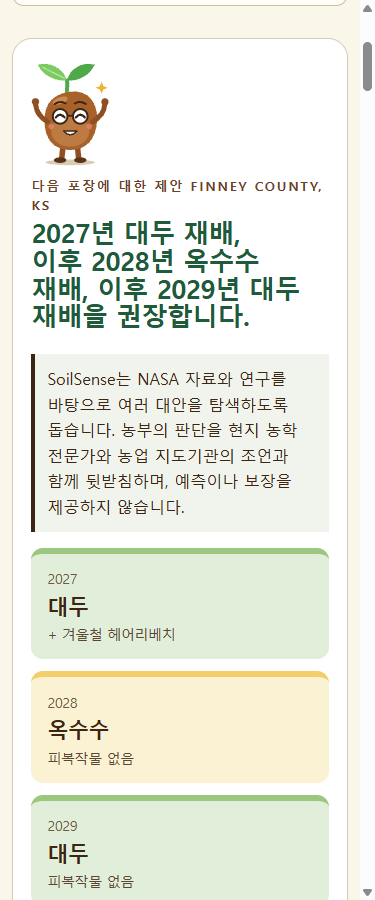
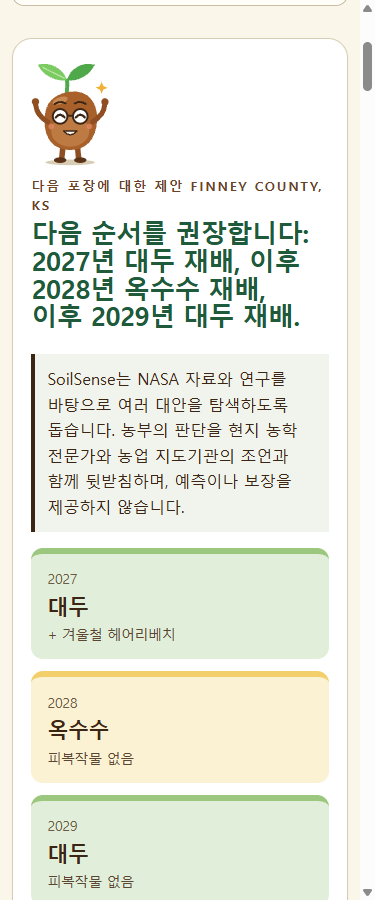
Complete Korean translations for merged field and pixel-fit panels

Changed region(s): [[0.088, 0.2178, 0.8213, 0.3733]]

diff --git a/web/src/i18n-ko.ts b/web/src/i18n-ko.ts
@@ -1290,4 +1290,56 @@ export const korean: Partial<Record<string, string>> = {
   "Regional extension context; retrieval relevance is not agronomic confidence.": "지역 농업 지도 배경 정보입니다. 검색 관련도가 농학적 신뢰도를 뜻하지는 않습니다.",
   "Curated passages on diversifying cropping systems.": "작부 체계 다양화에 관해 선별한 구절.",
   "General research context; not evidence that a specific field will achieve a stated return.": "일반적인 연구 배경 정보이며 특정 포장에서 명시된 수익을 얻는다는 근거가 아닙니다.",
+  "Choose public field outlines": "공개 포장 경계 선택",
+  "CSB outlines are synthetic crop boundaries, not ownership or tax parcels. Coverage tonight: about 3 × 3 km around each demo farm only.": "CSB 경계는 합성된 작물 재배 경계이며 소유권이나 과세 필지 경계가 아닙니다. 오늘 밤 제공 범위는 각 시연 농장 주변 약 3 × 3 km로 한정됩니다.",
+  "Boundary area": "경계 조회 지역",
+  "Show boundaries on map": "지도에 경계 표시",
+  "Click an outline to select it. Shift/Ctrl-click to add or remove; or use the checkboxes below.": "경계를 클릭하여 선택하세요. Shift/Ctrl 키를 누른 채 클릭하여 추가하거나 제거할 수 있으며, 아래 확인란을 사용해도 됩니다.",
+  "Loading field outlines…": "포장 경계 불러오는 중…",
+  "Field outlines unavailable. Choose an area to retry.": "포장 경계를 불러올 수 없습니다. 지역을 선택하여 다시 시도하세요.",
+  "Fields in this area": "이 지역의 포장",
+  "Selected fields": "선택한 포장",
+  "{count} fields · {acres} acres total": "포장 {count}개 · 총 {acres} acres",
+  "{acres} acres": "{acres} acres",
+  "Add shared-edge neighbours": "경계선을 공유하는 인접 포장 추가",
+  "Clear field selection": "포장 선택 해제",
+  "No fields selected.": "선택한 포장이 없습니다.",
+  "CSB crop sequence (2018–2025)": "CSB 재배 작물 순서(2018–2025)",
+  "Use this field centroid for the plan": "이 포장의 도형 중심점을 계획 위치로 사용",
+  "Selection does not change the planning point unless you choose the centroid button. Crop history remains the existing point-based history.": "도형 중심점 버튼을 선택하지 않는 한 포장을 선택해도 계획 지점은 바뀌지 않습니다. 재배 이력은 기존의 지점 기반 이력으로 유지됩니다.",
+  "Nearby fields share coarse NASA POWER weather (~50 km); outlines do not make weather field-scale.": "인근 포장은 저해상도 NASA POWER 기상 자료(~50 km)를 공유합니다. 경계를 표시해도 기상 자료가 포장 규모로 상세해지는 것은 아닙니다.",
+  "Source and limitations": "출처와 한계",
+  "Remove selected field": "선택한 포장 제거",
+  "Sinusoidal grid": "정현도법 격자",
+  "Mascons": "질량 집중 단위(mascon)",
+  "Lambert conformal conic": "Lambert 정각원추도법",
+  "Map units": "지도 단위",
+  "Not applicable or unknown": "해당 없음 또는 미상",
+  "Field-scale (demo)": "포장 규모(시연)",
+  "Mixed edge": "경계부 혼합",
+  "Regional only": "지역 규모 전용",
+  "Not a raster": "래스터 자료 아님",
+  "Fit unknown": "포장 내 픽셀 포함 정도 미상",
+  "Native lat/lon grid": "원래의 위도/경도 격자",
+  "Approximate local grid": "근사 지역 격자",
+  "Support-area proxy only": "대표 면적의 근사값만 사용",
+  "Soil map-unit polygons": "토양 지도 단위 다각형",
+  "Satellite pixel fit": "포장 내 위성 픽셀 포함 정도",
+  "Geometry only, not cloud-free observations, accuracy, or a field measurement. Does not change rankings or Field Watch alerts.": "기하학적 포함 관계만 나타내며, 구름 없는 관측 자료의 존재 여부나 정확도 또는 포장 실측값을 뜻하지 않습니다. 순위나 Field Watch 경보는 바뀌지 않습니다.",
+  "Field-scale uses at least {count} whole pixels: a demonstration setting, not a validated agronomic threshold.": "포장 규모 분류에는 완전히 포함된 픽셀 {count}개 이상을 기준으로 사용합니다. 이는 시연용 설정이며 검증된 농학적 임계값이 아닙니다.",
+  "Projected grids are approximations on a local equal-area square grid, not native UTM, sinusoidal, Albers, Lambert or EASE alignment. Edge and hole intersections are excluded.": "투영 격자는 지역 등적 정사각형 격자를 이용한 근사값이며, 원래의 UTM, 정현도법, Albers, Lambert 또는 EASE 격자 정렬을 따르지 않습니다. 경계나 내부 구멍과 교차하는 픽셀은 제외합니다.",
+  "SMAP, IMERG, POWER, Daymet and GRACE remain regional context even if a very large outline contains cells. Neighbouring fields can share the same weather.": "매우 큰 경계 안에 격자 셀이 포함되더라도 SMAP, IMERG, POWER, Daymet, GRACE는 지역 배경 정보로만 사용됩니다. 인접 포장이 같은 기상 자료를 공유할 수 있습니다.",
+  "Selecting a field outline shows the estimated fit. Latitude-dependent acreage uses {latitude}° here.": "포장 경계를 선택하면 추정된 픽셀 포함 정도가 표시됩니다. 여기서 위도에 따라 달라지는 에이커 면적은 {latitude}°를 기준으로 계산합니다.",
+  "Native pixel sizes and approximate acres per pixel": "원래의 픽셀 크기와 픽셀당 근사 면적(acres)",
+  "Product / grid": "제품 / 격자",
+  "Pixel size": "픽셀 크기",
+  "Acres per pixel": "픽셀당 면적(acres)",
+  "Outline area: {acres} acres (spherical estimate). Synthetic CSB outlines are not ownership parcels.": "경계 내 면적: {acres} acres(구면 기반 추정값). 합성된 CSB 경계는 소유권 필지 경계가 아닙니다.",
+  "Estimated whole pixels inside {field}": "{field} 안에 완전히 포함된 픽셀 수 추정값",
+  "Pixel size / acres": "픽셀 크기 / 면적(acres)",
+  "Area ratio / whole pixels": "면적 비율 / 완전히 포함된 픽셀 수",
+  "Scale category": "규모 분류",
+  "MODIS is nominally 250 m; acreage/counts use the 231.656 m sinusoidal cell spacing. HLS is a separate optional evidence source; this table does not imply data availability. CDL refers to the app’s 30 m history, not newer 10 m releases.": "MODIS의 명목 해상도는 250 m이며, 면적과 픽셀 수 계산에는 정현도법 격자의 셀 간격인 231.656 m를 사용합니다. HLS는 별도의 선택적 근거 자료 출처이며, 이 표가 자료의 이용 가능 여부를 나타내지는 않습니다. CDL은 최신 10 m 버전이 아니라 이 앱에서 사용하는 30 m 재배 이력을 가리킵니다.",
+  "GRACE uses an approximate 3° equivalent support area, never independent 0.5° display cells. Its whole-pixel count is unknown without native mascon geometry. SSURGO has no pixel count.": "GRACE는 약 3°에 해당하는 대표 면적을 사용하며, 화면에 표시된 0.5° 셀을 독립적인 단위로 취급하지 않습니다. 원래의 mascon 형상 정보 없이는 완전히 포함된 픽셀 수를 알 수 없습니다. SSURGO에는 픽셀 수가 없습니다.",
+  "Area ratio means outline area divided by one pixel area; it is not the number of contained pixels. Unknown also covers unsupported geometry or the computation limit.": "면적 비율은 경계 내 면적을 픽셀 하나의 면적으로 나눈 값이며, 포함된 픽셀 수가 아닙니다. 미상에는 지원되지 않는 형상이나 계산 한계에 도달한 경우도 포함됩니다.",
 };

diff --git a/web/src/components/AIUsagePanel.i18n.test.ts b/web/src/components/AIUsagePanel.i18n.test.ts
@@ -1,0 +1,75 @@
+// @vitest-environment happy-dom
+import { act, createElement as h } from "react";
+import { createRoot } from "react-dom/client";
+import { afterEach, beforeEach, expect, it, vi } from "vitest";
+import { LANGUAGE_LOCALES } from "../../../src/shared/language";
+import { LanguageProvider, LANGUAGE_STORAGE_KEY } from "../i18n";
+import { AIUsagePanel } from "./AIUsagePanel";
+
+let container: HTMLDivElement;
+let root: ReturnType<typeof createRoot>;
+beforeEach(() => {
+  vi.stubGlobal("IS_REACT_ACT_ENVIRONMENT", true);
+  container = document.createElement("div");
+  document.body.append(container);
+  root = createRoot(container);
+});
+afterEach(async () => {
+  await act(async () => root.unmount());
+  container.remove();
+  localStorage.clear();
+  vi.restoreAllMocks();
+  vi.unstubAllGlobals();
+});
+
+it.each([
+  {
+    language: "en", title: "AI Gateway usage", token: "Admin token", refresh: "Refresh AI usage",
+    caption: "Model attempts by feature", headers: ["Feature", "Calls", "Failures", "Fallbacks", "p50 latency (ms)"],
+    caveat: "Fallbacks count attempts, not successful recoveries.",
+    auth: "An ADMIN_TOKEN is required; a team sign-in is not enough.",
+  },
+  {
+    language: "es", title: "Uso de AI Gateway", token: "Token de administrador", refresh: "Actualizar uso de IA",
+    caption: "Intentos de modelo por función", headers: ["Función", "Llamadas", "Fallos", "Respaldos", "Latencia p50 (ms)"],
+    caveat: "Los respaldos cuentan intentos, no recuperaciones exitosas.",
+    auth: "Se requiere ADMIN_TOKEN; el acceso del equipo no basta.",
+  },
+  {
+    language: "ko", title: "AI Gateway 사용량", token: "관리자 토큰", refresh: "AI 사용량 새로 고침",
+    caption: "기능별 모델 시도 횟수", headers: ["기능", "호출", "실패", "대체 모델 시도", "p50 지연 시간(ms)"],
+    caveat: "대체 모델 수치는 성공적인 복구가 아닌 시도 횟수입니다.",
+    auth: "ADMIN_TOKEN이 필요합니다. 팀 로그인만으로는 이용할 수 없습니다.",
+  },
+] as const)("renders $language usage labels, localized counts and auth errors", async (copy) => {
+  localStorage.setItem(LANGUAGE_STORAGE_KEY, copy.language);
+  const fetcher = vi.fn()
+    .mockResolvedValueOnce(Response.json({
+      available: true, windowHours: 24, limit: 5000,
+      features: [{ feature: "scout", calls: 1234, failures: 2, fallbacks: 1, p50LatencyMs: 3456 }],
+    }))
+    .mockResolvedValueOnce(Response.json({ error: "unauthorized" }, { status: 401 }));
+  vi.stubGlobal("fetch", fetcher);
+  const formatter = vi.spyOn(Intl, "NumberFormat");
+  await act(async () => root.render(h(LanguageProvider, { children: h(AIUsagePanel) })));
+  expect(container.querySelector("h2")?.textContent).toBe(copy.title);
+  expect(container.querySelector("label")?.textContent?.trim()).toBe(copy.token);
+  expect(container.querySelector("button")?.textContent).toBe(copy.refresh);
+
+  // Submit directly to test translated responses without handling a real credential.
+  const submit = () => container.querySelector("form")!.dispatchEvent(new Event("submit", { bubbles: true, cancelable: true }));
+  await act(async () => { submit(); });
+  expect(container.querySelector("caption")?.textContent).toBe(copy.caption);
+  expect([...container.querySelectorAll("thead th")].map(cell => cell.textContent)).toEqual(copy.headers);
+  expect(container.textContent).toContain(copy.caveat);
+  expect(formatter).toHaveBeenCalledWith(LANGUAGE_LOCALES[copy.language]);
+  const number = new Intl.NumberFormat(LANGUAGE_LOCALES[copy.language]);
+  expect([...container.querySelectorAll("tbody th, tbody td")].map(cell => cell.textContent)).toEqual([
+    "scout", number.format(1234), "2", "1", number.format(3456),
+  ]);
+  expect(container.textContent).toContain(number.format(5000));
+
+  await act(async () => { submit(); });
+  expect(container.querySelector("table")).toBeNull();
+  expect(container.querySelector('[role="alert"]')?.textContent).toBe(copy.auth);
+});

diff --git a/web/src/pages/SourcesPage.test.ts b/web/src/pages/SourcesPage.test.ts
@@ -51,13 +51,19 @@ it.each(["en", "es", "ko"] as const)("renders every Sources description, chip, b
   expect([...container.querySelectorAll(selector)].map(node => node.textContent!)).toEqual(english);
 });
 
-it("has complete ES/KO dictionaries, preserves interpolation values and falls back to English", () => {
+it("reports Korean page coverage, preserves interpolation values and falls back to English", () => {
   const placeholders = (value: string) => [...value.matchAll(/\{(\w+)\}/g)].map(match => match[1]).sort();
   for (const language of ["es", "ko"] as const) {
-    expect(Object.keys(pageMessages[language])).toEqual(Object.keys(pageMessages.en));
+    if (language === "es") expect(Object.keys(pageMessages.es)).toEqual(Object.keys(pageMessages.en));
+    else {
+      const missing = Object.keys(pageMessages.en).filter(key => !pageMessages.ko[key as keyof typeof pageMessages.en]);
+      console.info(`Korean pages: ${Object.keys(pageMessages.en).length - missing.length}/${Object.keys(pageMessages.en).length}; ${missing.length} keys fall back to English`, missing);
+    }
     for (const key of Object.keys(pageMessages.en) as (keyof typeof pageMessages.en)[]) {
-      expect(pageMessages[language][key].trim(), `${language}: ${key}`).not.toBe("");
-      expect(placeholders(pageMessages[language][key]), `${language}: ${key}`).toEqual(placeholders(key));
+      const value = pageMessages[language][key];
+      if (value === undefined && language === "ko") { expect(pageTranslate(language, key)).toBe(key); continue; }
+      expect(value?.trim(), `${language}: ${key}`).not.toBe("");
+      expect(placeholders(value!), `${language}: ${key}`).toEqual(placeholders(key));
     }
   }
   expect(pageTranslate("fr", "Watch a call")).toBe("Watch a call");

diff --git a/web/src/i18n-pages.ts b/web/src/i18n-pages.ts
@@ -289,18 +289,18 @@ const translations = {
   "Extracted document exceeds 10 MiB": ["El documento extraído supera los 10 MiB", "추출된 문서가 10 MiB를 초과합니다"],
   "Failed to fetch": ["No se pudo conectar con el servidor", "서버에 연결할 수 없습니다"],
   "NetworkError when attempting to fetch resource.": ["Error de red al intentar recuperar el recurso.", "리소스를 가져오는 중 네트워크 오류가 발생했습니다."],
-} satisfies Record<string, [string, string]>;
+} satisfies Record<string, [string, string?]>;
 
 export type PageTranslationKey = keyof typeof translations;
 export const pageMessages = {
   en: Object.fromEntries(Object.keys(translations).map(key => [key, key])) as Record<PageTranslationKey, string>,
   es: Object.fromEntries(Object.entries(translations).map(([key, value]) => [key, value[0]])) as Record<PageTranslationKey, string>,
-  ko: Object.fromEntries(Object.entries(translations).map(([key, value]) => [key, value[1]])) as Record<PageTranslationKey, string>,
+  ko: Object.fromEntries(Object.entries(translations).map(([key, value]) => [key, value[1]])) as Partial<Record<PageTranslationKey, string>>,
 };
 
 export function pageTranslate(language: string, key: string, values: Record<string, string | number> = {}): string {
   const dictionary = language === "es" ? pageMessages.es : language === "ko" ? pageMessages.ko : pageMessages.en;
-  const template = Object.hasOwn(dictionary, key) ? dictionary[key as PageTranslationKey] : key;
+  const template = Object.hasOwn(dictionary, key) ? dictionary[key as PageTranslationKey] ?? key : key;
   return template.replace(/\{(\w+)\}/g, (match, name: string) => String(values[name] ?? match));
 }
 

diff --git a/docs/I18N.md b/docs/I18N.md
@@ -49,6 +49,21 @@ Page and How-it-works dictionaries have separate coverage checks. Re-run the
 coverage report after merging new English/Spanish features and translate omissions.
 Unknown user/provider text is not a dictionary key and is preserved.
 
+## Local evidence
+
+Screenshots at a 375 px viewport (Korean system fonts rendered without missing glyphs;
+360 px content width with classic scrollbar, no horizontal page overflow):
+
+- [Planner landing](i18n/ko-375-landing.png)
+- [Real Kansas plan](i18n/ko-375-plan.png)
+- [How it works](i18n/ko-375-how-it-works.png)
+
+The local offline Worker has no AI binding; Sprout response-language propagation is
+verified at the HTTP/model boundary with a test double, not claimed as a live Korean
+model response. Admin review tests use an explicitly synthetic local-only fixture;
+no real document approval or upload is performed. The real local Korean planner
+request returned a Korean deterministic summary and agricultural crop labels.
+
 ## Verification
 
 Run `npm run typecheck`, `npm test`, and `npm run build`. The language tests
